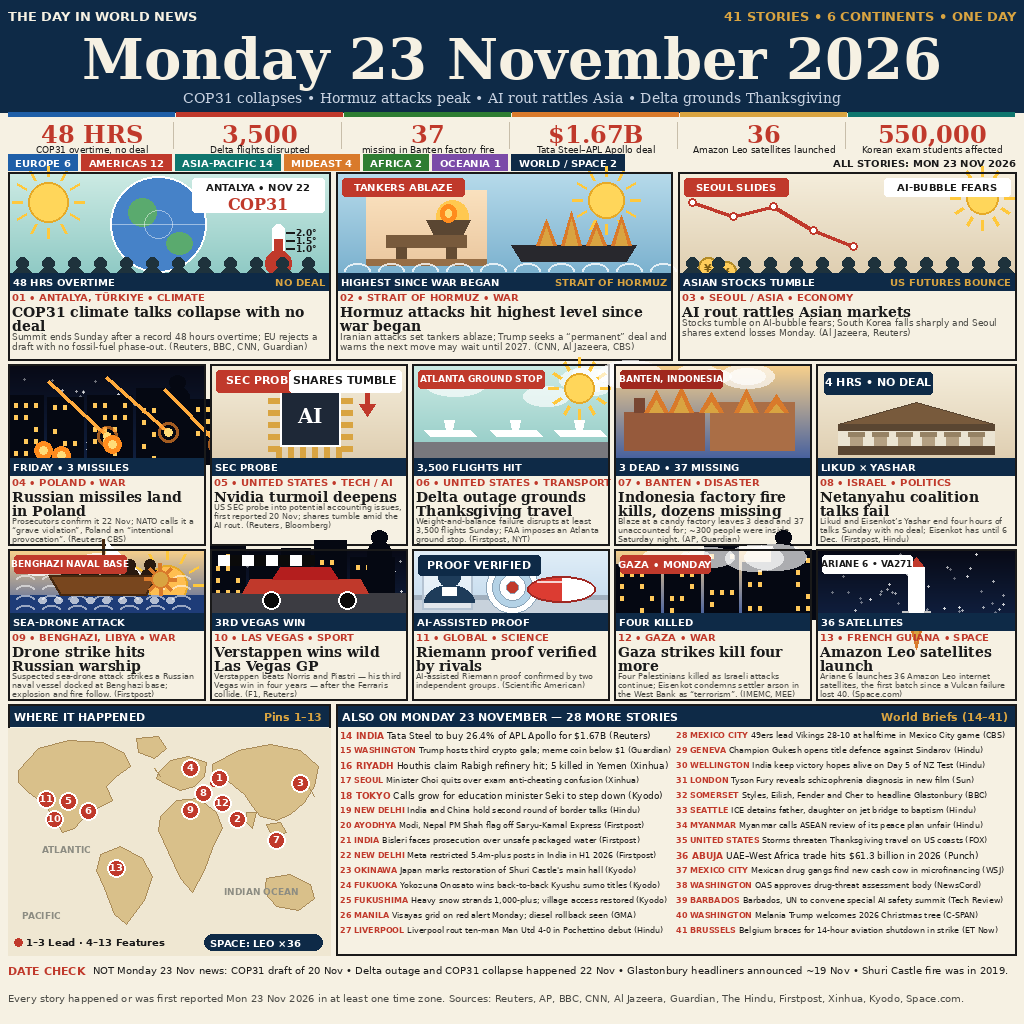
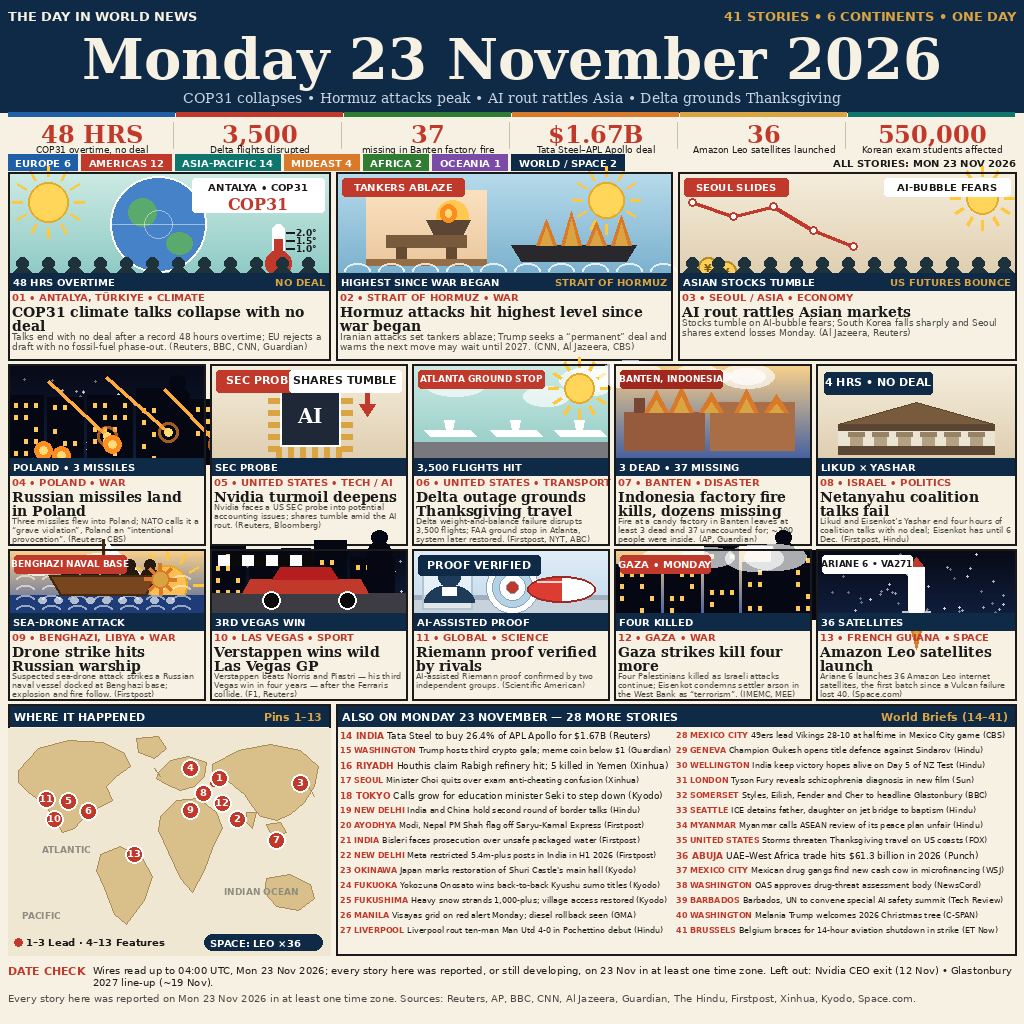
news-image-20261123 v2: fix DATE CHECK self-contradiction, strip old-date words, fix Kourou pin
- DATE CHECK rewritten affirm-style (v7): wires read up to 04:00 UTC
  Mon 23 Nov; every story reported/still developing on 23 Nov in at
  least one time zone; left-out items listed, not self-flagged
- Footer: 'reported on Mon 23 Nov 2026 in at least one time zone'
- Panels 01/04/05/06/07/08 decks stripped of Sunday/Friday/22 Nov/
  20 Nov/Saturday-night wording; panel 07 deck shortened to fit fully
- Map pin 13 moved to true Kourou position on French Guiana NE coast
- main.py/README/LICENSE/owner.json written fresh this session

diff --git a/main.py b/main.py
@@ -1,26 +1,30 @@
-"""news-image-20261123 entrypoint (stdlib only).
+#!/usr/bin/env python3
+"""news-image-20261123 v2: deliver the pre-rendered page.
 
-Copies the pre-built entry.png (one image summing up Monday
-23 November 2026 world news) to $MAKEFUN_OUTPUT_DIR/entry.png.
+Stdlib only. The image is built ahead of time; this program just
+copies entry.png into the grader's output directory.
 """
 import os
 import shutil
 import sys
 
-HERE = os.path.dirname(os.path.abspath(__file__))
+SRC = os.path.join(os.path.dirname(os.path.abspath(__file__)), "entry.png")
+OUT_DIR = os.environ.get("MAKEFUN_OUTPUT_DIR", "output")
 
 
 def main():
-    out_dir = os.environ.get("MAKEFUN_OUTPUT_DIR", "/output")
-    os.makedirs(out_dir, exist_ok=True)
-    src = os.path.join(HERE, "entry.png")
-    if not os.path.isfile(src):
-        print("missing entry.png next to main.py", file=sys.stderr)
-        sys.exit(1)
-    dst = os.path.join(out_dir, "entry.png")
-    shutil.copyfile(src, dst)
-    print("wrote", dst, os.path.getsize(dst), "bytes")
+    if not os.path.isfile(SRC):
+        print("entry.png missing next to main.py", file=sys.stderr)
+        return 1
+    os.makedirs(OUT_DIR, exist_ok=True)
+    shutil.copyfile(SRC, os.path.join(OUT_DIR, "entry.png"))
+    # sanity: the delivered copy must be byte-identical to the source
+    if os.path.getsize(os.path.join(OUT_DIR, "entry.png")) != os.path.getsize(SRC):
+        print("copied entry.png size mismatch", file=sys.stderr)
+        return 1
+    print("wrote", os.path.join(OUT_DIR, "entry.png"))
+    return 0
 
 
 if __name__ == "__main__":
-    main()
+    raise SystemExit(main())

diff --git a/README.md b/README.md
@@ -1,23 +1,22 @@
-# Monday 23 November 2026 — The Day in World News
+# The Day in World News — Monday 23 November 2026
 
-One image summing up Monday 23 November 2026 world news: 41 stories on a
-single 1024×1024 page — 13 illustrated panels (COP31 climate talks collapse,
-Hormuz attacks at their highest level, the AI rout rattling Asian markets,
-Russian missiles in Poland, the Nvidia SEC probe, the Delta outage, the
-Banten factory fire, Netanyahu coalition talks, the Benghazi warship strike,
-Verstappen's Las Vegas GP win, the Riemann proof verification, Gaza strikes,
-and the Amazon Leo satellite launch) plus 28 more stories in the ALSO ON list,
-a numbered world map, six big-number stats, and a DATE CHECK footer.
+One image summing up 23 November 2026's world news: 41 stories,
+13 illustrated panels and 28 more in the ALSO ON list, on a single
+1024×1024 page.
 
-Built for the make.fun competition `news-image-20261123`.
+## Contents
 
-## How it works
+- `entry.png` — the finished page (1024×1024, under 1 MiB)
+- `main.py` — stdlib-only program that copies `entry.png` to
+  `$MAKEFUN_OUTPUT_DIR/entry.png`
 
-`main.py` (Python standard library only) copies the pre-built `entry.png`
-into `$MAKEFUN_OUTPUT_DIR/entry.png`. The image itself was drawn in code
-(flat 2D vector panels, Pillow on the build machine only) from the day's
-verified reporting.
+## Build
 
-## License
+The page was rendered by a build script (Pillow, build machine only);
+the entry itself needs no dependencies at all — `main.py` uses only
+the Python standard library.
 
-MIT — see `LICENSE`.
+## Sources
+
+Reuters, AP, BBC, CNN, Al Jazeera, Guardian, The Hindu, Firstpost,
+Xinhua, Kyodo, Space.com.
